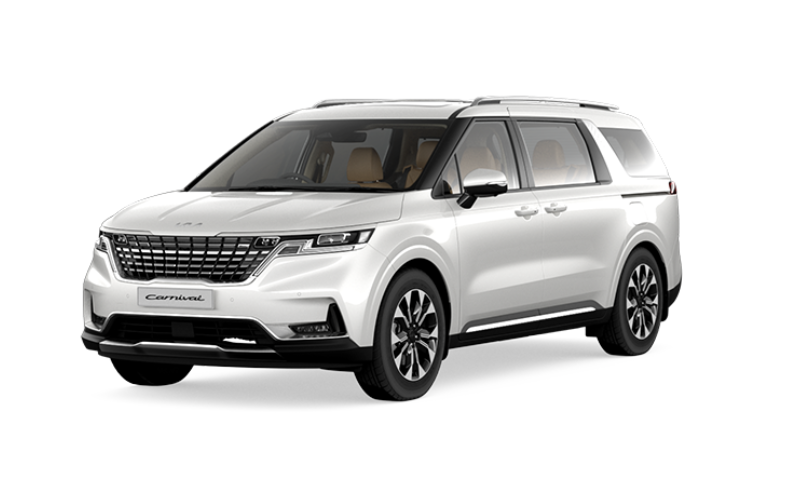
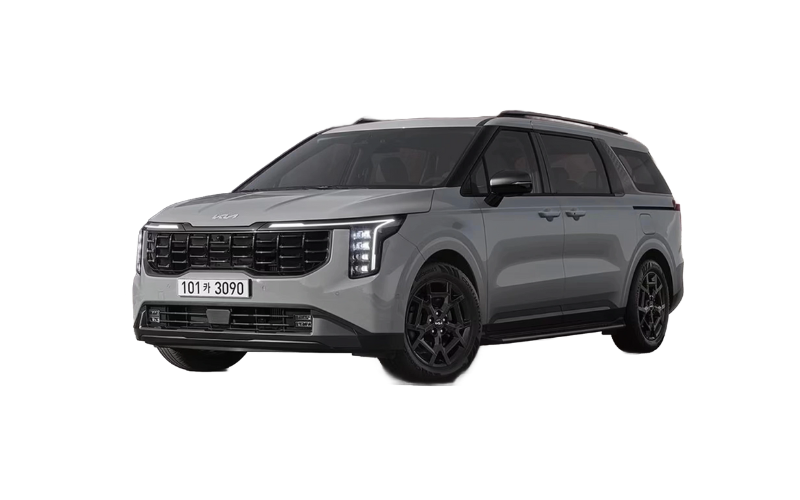
add introduce infomation

diff --git a/src/pages/home/Introduction.tsx b/src/pages/home/Introduction.tsx
@@ -1,0 +1,69 @@
+export default function Introduction() {
+  return (
+    <div className="py-12 px-8">
+      <h3 className="mb-10 text-center text-3xl font-extrabold leading-none tracking-tight text-gray-900 md:text-4xl lg:text-5xl dark:text-white">
+        <span className="text-blue-600 dark:text-blue-500">
+          Minh Khang Travel
+        </span>{" "}
+        - Hành trình an toàn và tiện nghi!
+      </h3>
+      <div className="flex justify-center">
+        <p className="italic text-base md:text-lg lg:text-xl leading-relaxed md:leading-loose lg:leading-loose text-gray-700 md:text-gray-800 lg: text-gray-900 p-4 md:-6 lg:p-8 text-justify">
+          <span className="text-blue-600">Minh Khang Travel </span> tự hào là
+          đơn vị cung cấp dịch vụ vận chuyển chất lượng cao, đáp ứng nhu cầu di
+          chuyển của khách hàng với nhiều dòng xe đa dạng, bao gồm các loại xe 4
+          chỗ, 7 chỗ, 16 chỗ, và 29 chỗ. Với mục tiêu mang đến sự an toàn và
+          thoải mái, mỗi chiếc xe của chúng tôi đều được trang bị đầy đủ tiện
+          nghi hiện đại, bảo dưỡng định kỳ để đảm bảo chất lượng và an toàn
+          tuyệt đối trong từng chuyến đi.
+        </p>
+      </div>
+      <div className="grid grip-cols-1 md:grid-cols-2 gap-4">
+        <div className="mb-3 flex items-center">
+          <p className="italic text-base md:text-lg lg:text-xl leading-relaxed md:leading-loose lg:leading-loose text-gray-700 md:text-gray-800 lg: text-gray-900 p-4 md:-6 lg:p-8 text-justify">
+            Nổi bật trong đội ngũ xe của <span className="text-blue-600">Minh Khang Travel </span> là dòng xe Kia
+            Carnival - dòng xe 7 chỗ cao cấp, lý tưởng cho những hành trình dài
+            và các chuyến đi gia đình hoặc nhóm bạn. Xe Carnival sở hữu thiết kế
+            sang trọng, nội thất rộng rãi, cùng hệ thống ghế ngồi bọc da cao
+            cấp, có thể điều chỉnh linh hoạt. Hệ thống giải trí tiên tiến và
+            điều hòa không khí đa chiều mang đến cho hành khách trải nghiệm thư
+            giãn tối đa trên suốt hành trình. Đặc biệt, xe Carnival được tích
+            hợp các công nghệ an toàn tiên tiến như hệ thống cảnh báo va chạm và
+            hỗ trợ phanh tự động, giúp hành khách yên tâm tận hưởng chuyến đi
+            một cách an toàn và tiện nghi nhất.
+          </p>
+        </div>
+        <div>
+          <img
+            className=""
+            src="/images/car-7-slots.png"
+            alt="Minh Khang Travel Introduction"
+          />
+        </div>
+      </div>
+      <div className="grid grip-cols-1 md:grid-cols-2 gap-4">
+        <div className="order-2 md:order-1">
+          <img
+            className="max-w-[75%] mx-auto"
+            src="/images/car-7-slots2.png"
+            alt="Minh Khang Travel Introduction"
+          />
+        </div>
+        <div className="mb-3 flex items-center order-1 md:order-2">
+          <p className="italic text-base md:text-lg lg:text-xl leading-relaxed md:leading-loose lg:leading-loose text-gray-700 md:text-gray-800 lg: text-gray-900 p-4 md:-6 lg:p-8 text-justify">
+            Nổi bật trong đội ngũ xe của <span className="text-blue-600">Minh Khang Travel </span> là dòng xe Kia
+            Carnival - dòng xe 7 chỗ cao cấp, lý tưởng cho những hành trình dài
+            và các chuyến đi gia đình hoặc nhóm bạn. Xe Carnival sở hữu thiết kế
+            sang trọng, nội thất rộng rãi, cùng hệ thống ghế ngồi bọc da cao
+            cấp, có thể điều chỉnh linh hoạt. Hệ thống giải trí tiên tiến và
+            điều hòa không khí đa chiều mang đến cho hành khách trải nghiệm thư
+            giãn tối đa trên suốt hành trình. Đặc biệt, xe Carnival được tích
+            hợp các công nghệ an toàn tiên tiến như hệ thống cảnh báo va chạm và
+            hỗ trợ phanh tự động, giúp hành khách yên tâm tận hưởng chuyến đi
+            một cách an toàn và tiện nghi nhất.
+          </p>
+        </div>
+      </div>
+    </div>
+  );
+}

diff --git a/src/pages/home/CarRentalType.tsx b/src/pages/home/CarRentalType.tsx
@@ -3,7 +3,6 @@ import { carsType } from "@/data/carType";
 import { CarType } from "@/types/car-rental";
 import { AnimatePresence, motion, useInView } from "framer-motion";
 import { useRef, useState } from "react";
-import { Link } from "react-router-dom";
 import RentCarModal from "./RentCarModal";
 
 const containerVariants = {
@@ -92,18 +91,17 @@ export default function CarRentalType(): JSX.Element {
             <div className="relative z-10 p-6">
               <div className="relative overflow-hidden mb-6 h-48 flex items-center justify-center">
                 <AnimatePresence>
-                  <Link to={car.to}>
                     <motion.img
                       key={car.id}
                       src={car.image}
                       alt={car.name}
                       initial={{
                         scale: 1,
-                        opacity: 0.7,
+                        opacity: 1,
                       }}
                       animate={{
                         scale: hoveredCard === car.id ? 1.15 : 1,
-                        opacity: hoveredCard === car.id ? 1 : 0.7,
+                        opacity: hoveredCard === car.id ? 1 : 1,
                         transition: {
                           duration: 0.4,
                           type: "spring",
@@ -113,7 +111,6 @@ export default function CarRentalType(): JSX.Element {
                       }}
                       className="w-full h-full object-contain cursor-pointer"
                     />
-                  </Link>
                 </AnimatePresence>
               </div>
 

diff --git a/src/pages/home/index.tsx b/src/pages/home/index.tsx
@@ -5,6 +5,7 @@ import Experience from "./Experience";
 import InterprovincialCarRental from "./InterprovincialCarRental";
 import PopularRoutes from "./PopularRoutes";
 import RentalProcedure from "./RentalProcedure";
+import Introduction from "./Introduction";
 import "./styles.css";
 export default function HomePage() {
   return (
@@ -15,6 +16,7 @@ export default function HomePage() {
         keywords="thuê xe, thuê xe Việt Nam, thuê xe MinhKhangTravel, thuê xe 4 chỗ, thuê xe 7 chỗ, thuê xe 16 chỗ, thuê xe 29 chỗ"
       />
       <BannerSection />
+      <Introduction />
       <CarRentalType />
       <InterprovincialCarRental />
       <PopularRoutes />
